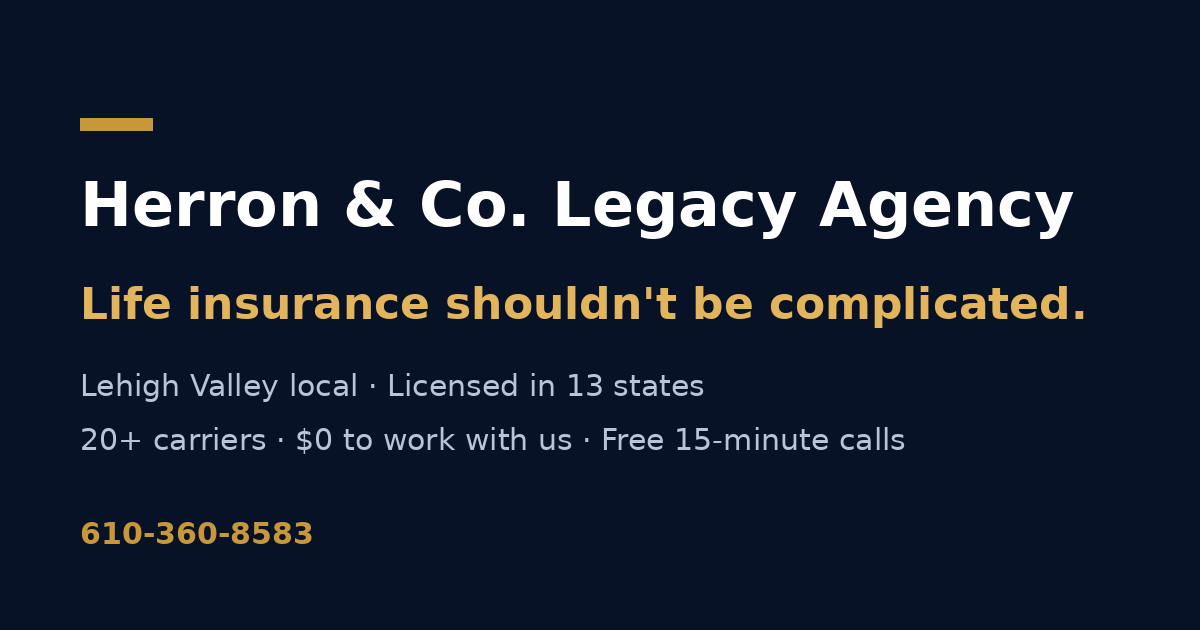
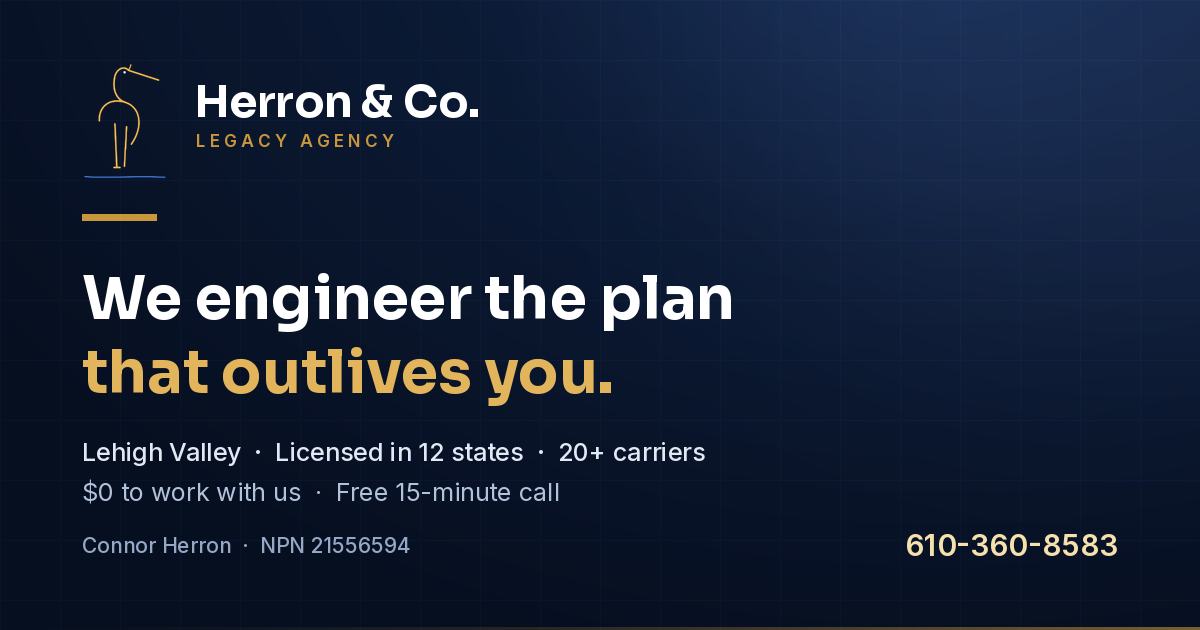
Correct the licensing claim: 12 states, not 13, and drop Georgia
The concierge was the serious one. netlify/functions/legacy-ai.js told it Connor
is "Licensed in 13 states" and listed Georgia among them. He is licensed in 12,
and Georgia is not one of them — the site's own state chips, the footer legal
block and CLAUDE.md all agree on PA, NJ, VA, WI, IA, IN, FL, TX, MA, NC, OH, MN.
So the live Legacy Concierge was making a false licensing representation to
anyone who asked which states it covers. Corrected to the canonical 12, with an
explicit instruction that the list is exhaustive and that someone outside it
should be told plainly rather than implied into coverage.

Same claim corrected in social/link-in-bio.html (meta description and the
visible badge) and in the eight places it appears in social/content-kit.html.

images/og.png rebuilt. It was the last carrier of both the wrong state count and
the retired tagline, and it is the first thing anyone sees when the link is
shared. Now in the brand system: navy with the hero's radial lift, brass rule,
the canonical heron mark with its blue underline, real Sora and Inter rather
than a fallback face, the current voice ("We engineer the plan that outlives
you."), 12 states, and Connor's name and NPN so the card is accountable. Checked
legible downscaled to feed size.

Not changed without sign-off: the retired tagline still appears as the #about h2
and in the homepage meta description. Noted in CLAUDE.md with the replacement
docs/premium-audit.md proposes.
[…]

diff --git a/social/content-kit.html b/social/content-kit.html
@@ -331,7 +331,7 @@ footer a{color:var(--brass-bright)}
             <div class="bio-handle"><b>Herron &amp; Co. Legacy Agency</b><span>@herronlegacy · Personal finance</span></div>
           </div>
           <div class="bio-lines">🛡 Life insurance without the sales pitch
-📍 Lehigh Valley · licensed in 13 states
+📍 Lehigh Valley · licensed in 12 states
 💬 "I'll tell you if it's NOT right for you"
 🧮 Free planning tools — no email, no pitch
 👇 Book 15 min · $0 to work with me</div>
@@ -392,7 +392,7 @@ footer a{color:var(--brass-bright)}
 
 That's the whole job. Save this before your next renewal.
 
-📍 Lehigh Valley · licensed in 13 states · $0 to work with me
+📍 Lehigh Valley · licensed in 12 states · $0 to work with me
 Book 15 min → link in bio 👆</p>
                 <div class="tags-line">#lifeinsurance #insurancetips #personalfinance #financialliteracy #livingbenefits #lehighvalley #moneytok #protectyourfamily #insuranceagent #financetok</div>
               </div>
@@ -455,7 +455,7 @@ The old fix was "use it or lose it" insurance nobody wanted. The new hybrids pay
 Ages 50–68 is the sweet spot. Want the real numbers for your situation? Free, no pressure.
 
 Book 15 min → link in bio 👆
-📍 Lehigh Valley · licensed in 13 states</p>
+📍 Lehigh Valley · licensed in 12 states</p>
                 <div class="tags-line">#longtermcare #retirementplanning #medicare #babyboomers #financialplanning #genx #caregiving #lehighvalley #personalfinance #insurancetips</div>
               </div>
             </div>
@@ -810,7 +810,7 @@ There isn't one. The carrier pays me, and your premium is the SAME whether you b
 Call the number and you get me. Not a call center. Not a script.
 
 Same price. Better outcome. Book 15 min → link in bio 👆
-📍 Lehigh Valley · licensed in 13 states</p>
+📍 Lehigh Valley · licensed in 12 states</p>
                 <div class="tags-line">#insuranceagent #lifeinsurance #independentagent #personalfinance #lehighvalley #smallbusiness #financialliteracy #shoplocal #moneytok #protectyourfamily</div>
               </div>
             </div>
@@ -890,7 +890,7 @@ Same price. Better outcome. Book 15 min → link in bio 👆
 A good agent loves these questions. If someone dodges them, that's your answer.
 
 Want me to pressure-test a policy you already have? Free, no pitch. Book 15 min 👇
-🔗 link in bio · 📍 Lehigh Valley, licensed in 13 states</p>
+🔗 link in bio · 📍 Lehigh Valley, licensed in 12 states</p>
                 <div class="tags-line">#lifeinsurance #financialliteracy #personalfinance #insurancetips #moneytips #protectyourfamily #savethis #lehighvalley #financialplanning #adulting101</div>
               </div>
             </div>
@@ -1112,7 +1112,7 @@ If you've been putting off sorting this for yourself or a parent, let this be th
         <div class="piece-top">
           <div class="piece-body">
             <div class="piece-tags"><span class="tag post">Post 06</span><span class="tag">Single · local</span><span class="tag">Pillar 04</span></div>
-            <h3>"Lehigh Valley born. Licensed in 13 states."</h3>
+            <h3>"Lehigh Valley born. Licensed in 12 states."</h3>
             <div class="goal">Format: single · Goal: local reach + geo-hashtag magnet</div>
             <div class="block">
               <span class="lbl">Caption</span>
@@ -1134,7 +1134,7 @@ Whether you're in Allentown, Bethlehem, Easton or anywhere in the 610 — if you
                 <div class="fin" style="padding:24px">
                   <div class="feye"><i></i> Local &amp; independent</div>
                   <div style="margin:auto 0">
-                    <div class="fh" style="font-size:28px">Lehigh Valley<br>born.<br><span style="color:var(--brass-bright)">13 states<br>licensed.</span></div>
+                    <div class="fh" style="font-size:28px">Lehigh Valley<br>born.<br><span style="color:var(--brass-bright)">12 states<br>licensed.</span></div>
                   </div>
                   <div class="ffoot"><span class="fhandle">@herronlegacy · 610-360-8583</span><span class="fcta">Link in bio</span></div>
                 </div>
@@ -1573,7 +1573,7 @@ Same price. Better outcome. No catch. 👇 link in bio · 15 min, zero pressure.
             <td><span class="fmt post">Carousel</span><br><b>5 questions before you sign</b> <span style="color:var(--ink-35)">(P1)</span></td>
             <td><span class="fmt reel">Reel</span><br><b>70% need care, Medicare $0</b> <span style="color:var(--ink-35)">(R2)</span></td>
             <td><span class="fmt story">Story</span><br><b>AMA Friday</b> <span style="color:var(--ink-35)">(S6)</span></td>
-            <td><span class="fmt post">Single</span><br><b>Lehigh Valley / 13 states</b> <span style="color:var(--ink-35)">(P6)</span></td>
+            <td><span class="fmt post">Single</span><br><b>Lehigh Valley / 12 states</b> <span style="color:var(--ink-35)">(P6)</span></td>
           </tr>
           <tr>
             <td class="day">Week 2<br><span style="color:var(--ink-35)">Trust</span></td>

diff --git a/social/link-in-bio.html b/social/link-in-bio.html
@@ -4,7 +4,7 @@
 <meta charset="UTF-8">
 <meta name="viewport" content="width=device-width, initial-scale=1.0">
 <title>Herron &amp; Co. Legacy Agency — Start here</title>
-<meta name="description" content="Life insurance without the sales pitch. Book a free 15-minute call, get an instant estimate, or try the free planning tools. Connor Herron — Lehigh Valley, licensed in 13 states.">
+<meta name="description" content="Life insurance without the sales pitch. Book a free 15-minute call, get an instant estimate, or try the free planning tools. Connor Herron — Lehigh Valley, licensed in 12 states.">
 <meta name="robots" content="index,follow">
 <meta property="og:type" content="website">
 <meta property="og:title" content="Herron &amp; Co. Legacy Agency — Start here">
@@ -112,7 +112,7 @@ h1{font-family:var(--font-display);font-weight:700;font-size:23px;letter-spacing
     <p class="tag"><b>Insurance without the sales pitch.</b> Pick a door below — I'll meet you there.</p>
     <div class="badges">
       <span class="badge">📍 Lehigh Valley</span>
-      <span class="badge">Licensed in <em>13 states</em></span>
+      <span class="badge">Licensed in <em>12 states</em></span>
       <span class="badge"><em>20+</em> carriers</span>
       <span class="badge"><em>$0</em> to work with me</span>
     </div>

diff --git a/netlify/functions/legacy-ai.js b/netlify/functions/legacy-ai.js
@@ -29,8 +29,11 @@ const SYSTEM_PROMPT = `You are the Legacy Concierge, the automated insurance ass
 # WHO YOU WORK FOR
 Connor Herron, an independent licensed insurance producer, NPN 21556594.
 Office: 30 S 15th Street, Suite 1550, Philadelphia, PA 19102. Phone: 610-360-8583.
-Licensed in 13 states: Pennsylvania, New Jersey, Virginia, Wisconsin, Iowa, Indiana,
-Georgia, Florida, Texas, Massachusetts, North Carolina, Ohio, and Minnesota.
+Licensed in 12 states: Pennsylvania, New Jersey, Virginia, Wisconsin, Iowa, Indiana,
+Florida, Texas, Massachusetts, North Carolina, Ohio, and Minnesota.
+This list is exhaustive. Never claim or imply a licence in any other state — if
+someone is outside these 12, say so plainly and offer the call anyway so Connor
+can refer them.
 Independent agency — quotes 20+ national carriers. NOT a government agency.
 Costs the client nothing; carriers pay the agent, and the premium is identical
 whether they buy through an agent or direct.

diff --git a/CLAUDE.md b/CLAUDE.md
@@ -130,10 +130,24 @@ Measured 482ms → 84ms per frame on a throttled phone profile.
 ## Where things stand
 Everything is on branch `claude/viral-social-content-creation-af6vpq` / PR #6, reviewed on
 the Deploy Preview. **Nothing is on production** — merging is gated on an explicit
-**"ship it"**. Known outstanding item: `images/og.png` (the social share card) still claims
-**"Licensed in 13 states"** — it should say 12, and it carries the retired tagline.
-Numbered homepage screenshots (01 hero … 15 mobile) are the agreed way the user points at
-sections.
+**"ship it"**. Numbered homepage screenshots (01 hero … 15 mobile) are the agreed way the
+user points at sections.
+
+**The "13 states" claim is now gone everywhere** (it was the last known outstanding item).
+`images/og.png` is rebuilt in the brand system with real Sora/Inter, the canonical heron,
+the current voice, 12 states, and the NPN — regenerate with the script pattern in the
+audit commit; Sora/Inter TTFs are fetchable from Google Fonts through the **tool** proxy
+even though the browser sandbox blocks them. The serious one was
+`netlify/functions/legacy-ai.js`: the concierge's system prompt said 13 states and listed
+**Georgia**, which Connor is not licensed in — so the live concierge was making a false
+licensing representation. Corrected to the canonical 12 with an explicit instruction never
+to imply any other state. `social/link-in-bio.html` and `social/content-kit.html` were
+corrected too. **If the state list ever changes, it lives in four places:** the
+`index.html` chips, the footer legal block, the concierge prompt, and the social kit.
+
+Still open, deliberately not changed without sign-off: the retired tagline *"Life insurance
+shouldn't be complicated."* survives as the `#about` h2 (`index.html`) and in the homepage
+meta description. `docs/premium-audit.md` proposes **"You'll be talking to me. Connor."**
 
 The premium-upgrade layer (docs/premium-upgrade-spec.md) is implemented: hx-hero-card
 glass, the GSAP 3D product wheel (self-hosted vendor/gsap — desktop fine-pointer only,
